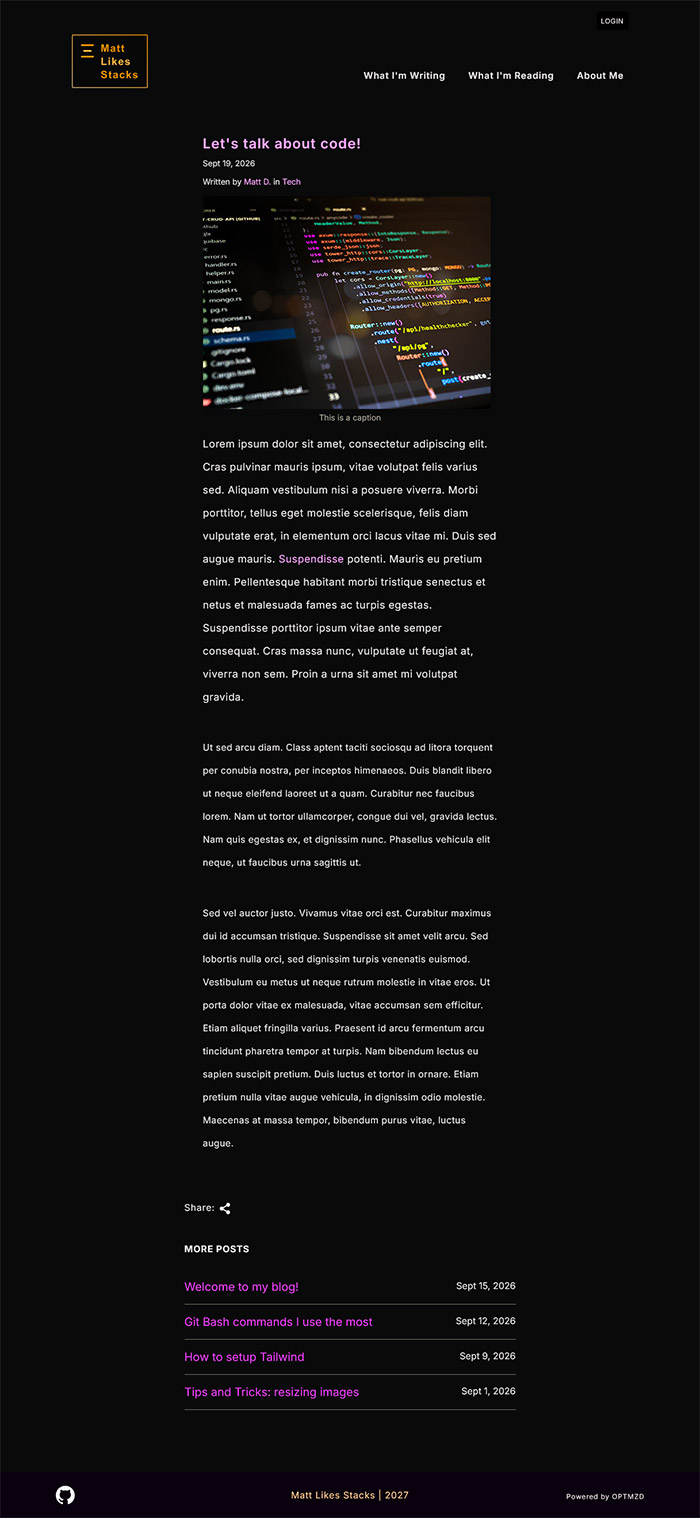
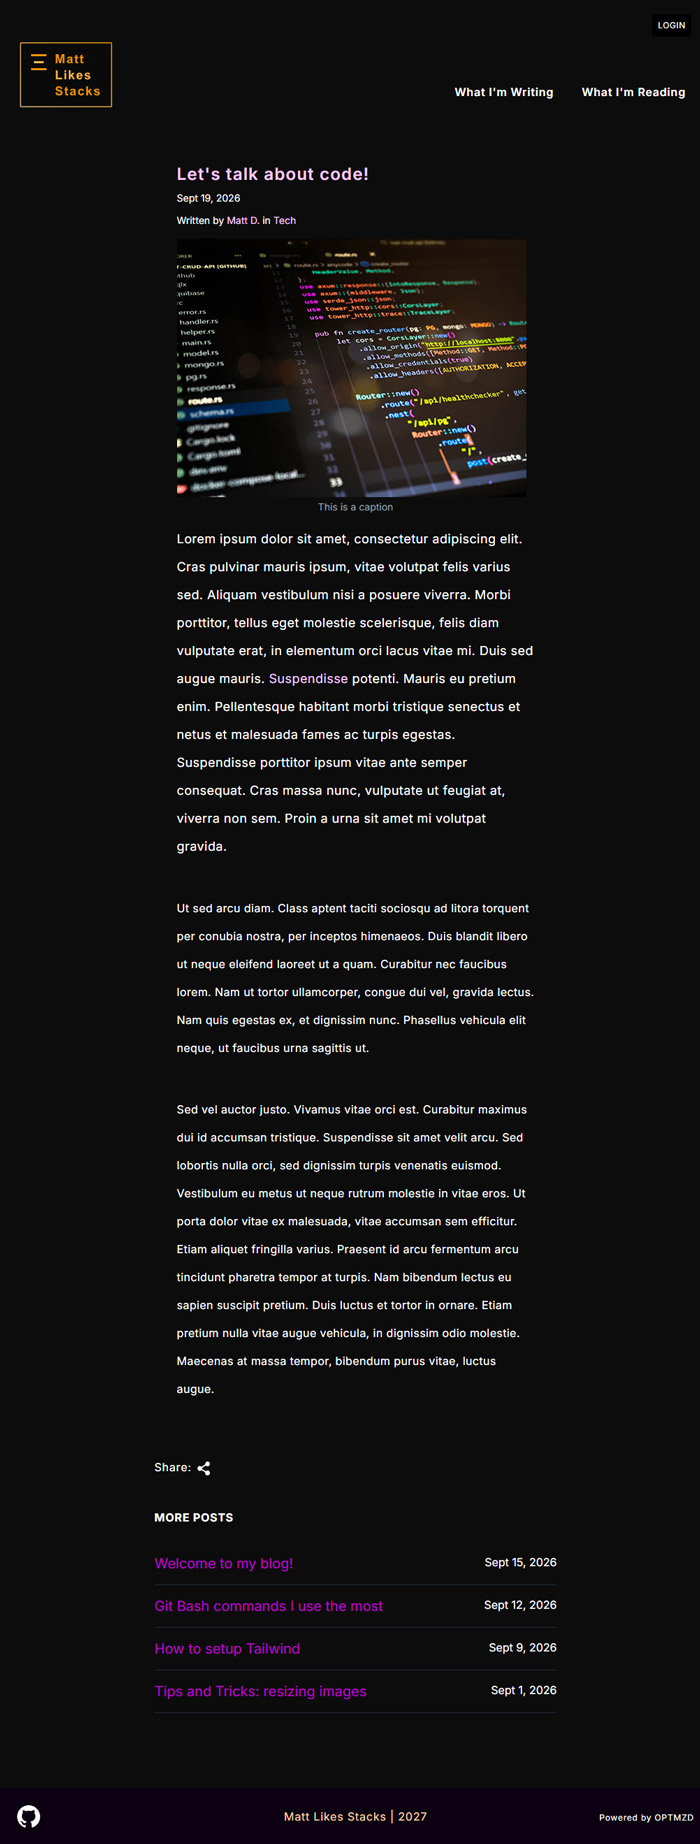
Update README.md screenshots

diff --git a/README.md b/README.md
@@ -32,10 +32,6 @@ width="700">
 
 &nbsp;
 
-<img src="public/images/frontend_about.jpg" alt="About me page of the blog frontend" width="700">
-
-&nbsp;
-
 ### Screenshots - Admin
 
 <img src="public/images/admin_home.jpg" alt="Admin login page of the blog admin" width="700">
